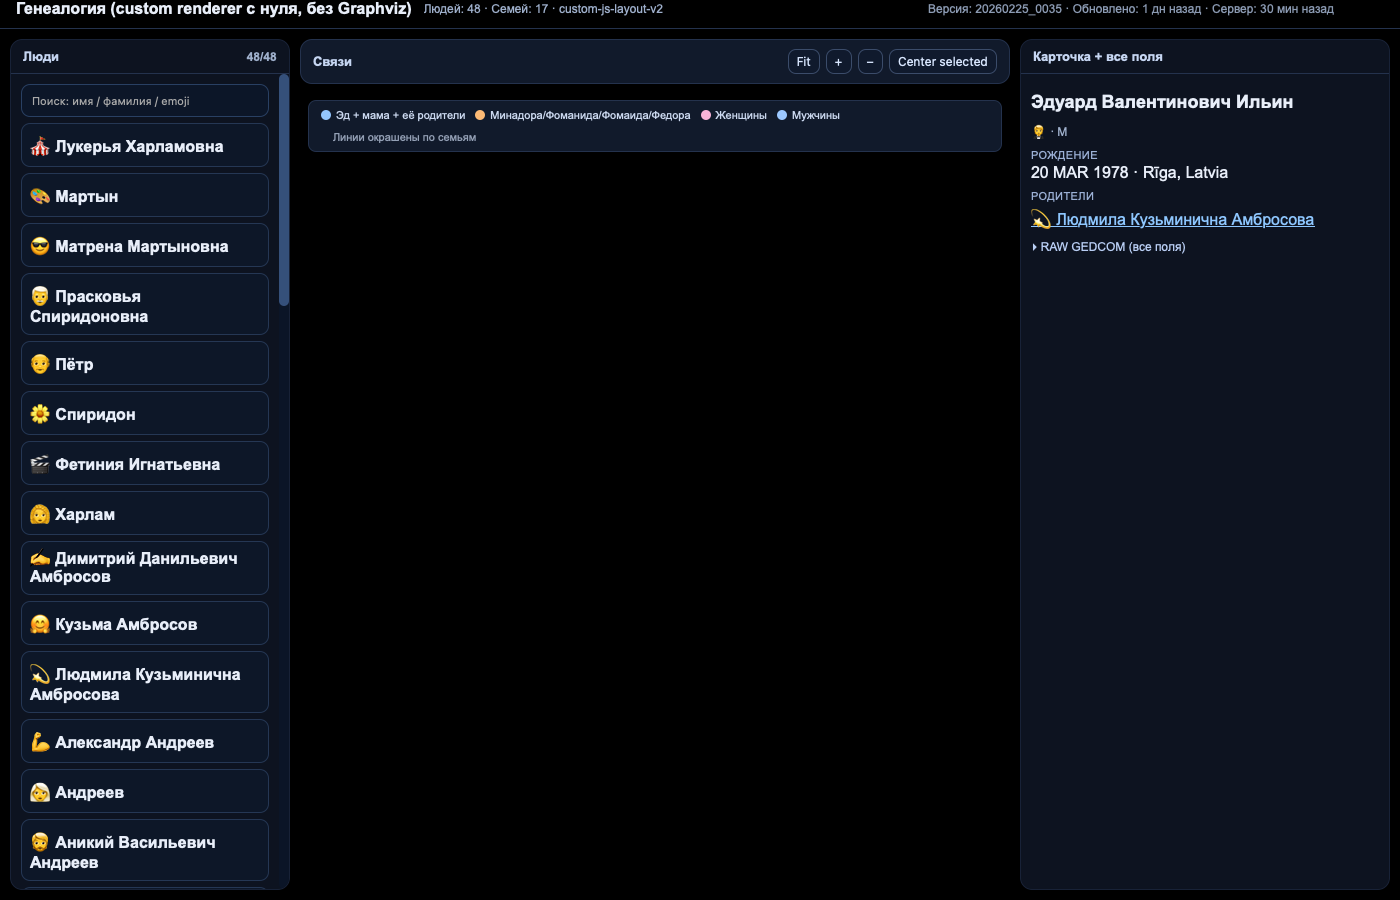
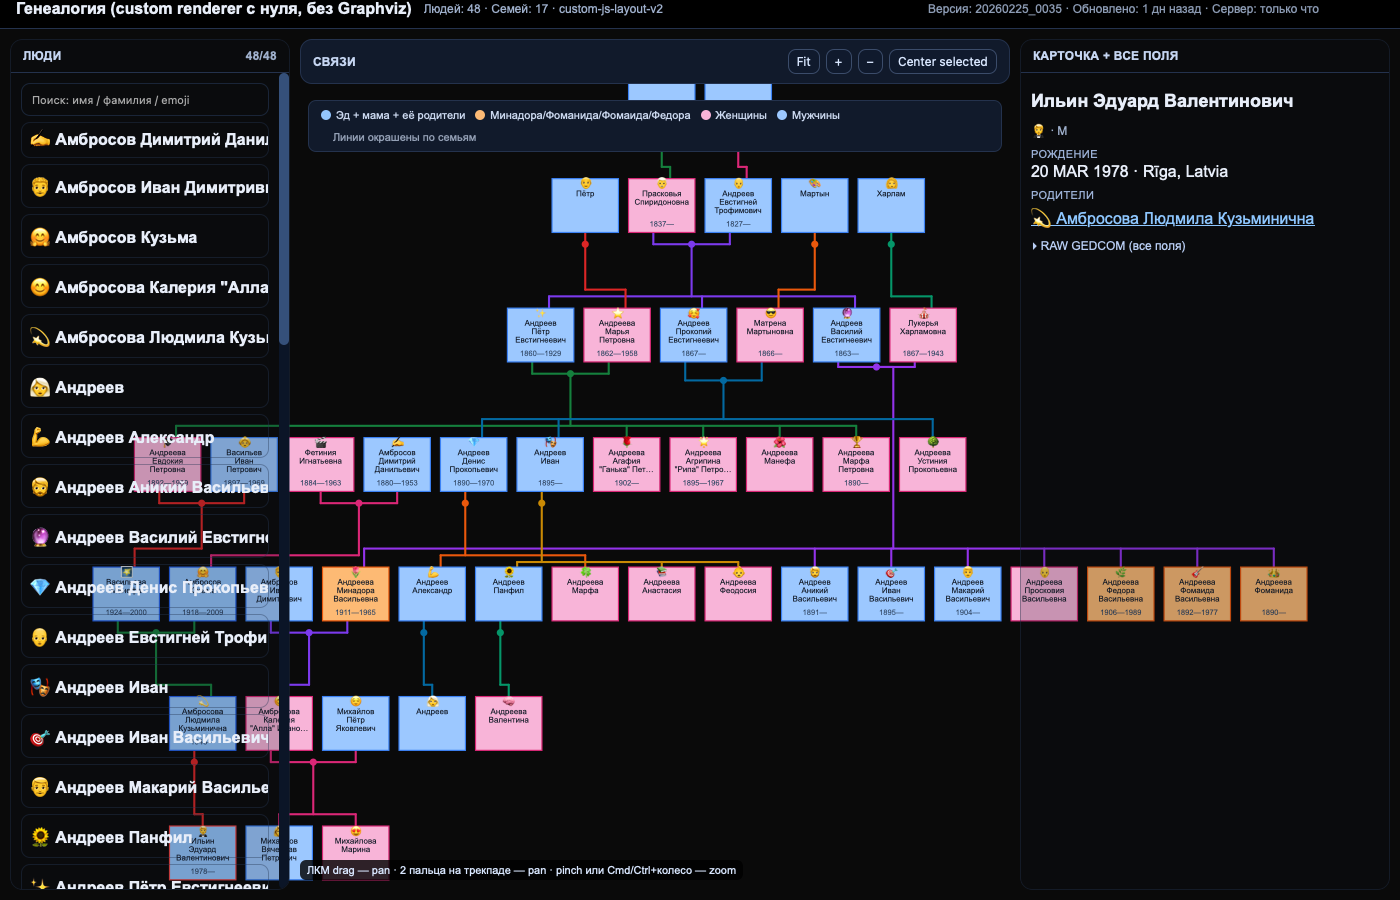
test: add integration test for svg panning without zoom

diff --git a/index.html b/index.html
@@ -579,16 +579,25 @@ function applyViewBox(){
 
 function fitView(){
   if(!graph) return;
-  view={x:0,y:0,w:graph.worldW,h:graph.worldH};
+  // Start slightly zoomed out to ensure the entire graph is visible, 
+  // and give some breathing room for panning to work immediately
+  // without hitting bounds too early if bounds were tight.
+  view={x: -graph.worldW*0.1, y: -graph.worldH*0.1, w: graph.worldW*1.2, h: graph.worldH*1.2};
+  clampView();
   applyViewBox();
 }
 
 function clampView(){
   if(!graph) return;
-  view.w=Math.max(graph.worldW*0.12, Math.min(graph.worldW, view.w));
-  view.h=Math.max(graph.worldH*0.12, Math.min(graph.worldH, view.h));
-  view.x=Math.max(0, Math.min(graph.worldW-view.w, view.x));
-  view.y=Math.max(0, Math.min(graph.worldH-view.h, view.y));
+  // Allow zooming out up to 3x the world size so users can pan even when "fully zoomed out" initially
+  view.w=Math.max(graph.worldW*0.12, Math.min(graph.worldW*3, view.w));
+  view.h=Math.max(graph.worldH*0.12, Math.min(graph.worldH*3, view.h));
+  
+  // Allow panning past the borders (overscroll)
+  const paddingX = graph.worldW * 0.8;
+  const paddingY = graph.worldH * 0.8;
+  view.x=Math.max(-paddingX, Math.min(graph.worldW+paddingX-view.w, view.x));
+  view.y=Math.max(-paddingY, Math.min(graph.worldH+paddingY-view.h, view.y));
 }
 
 function zoom(factor){
